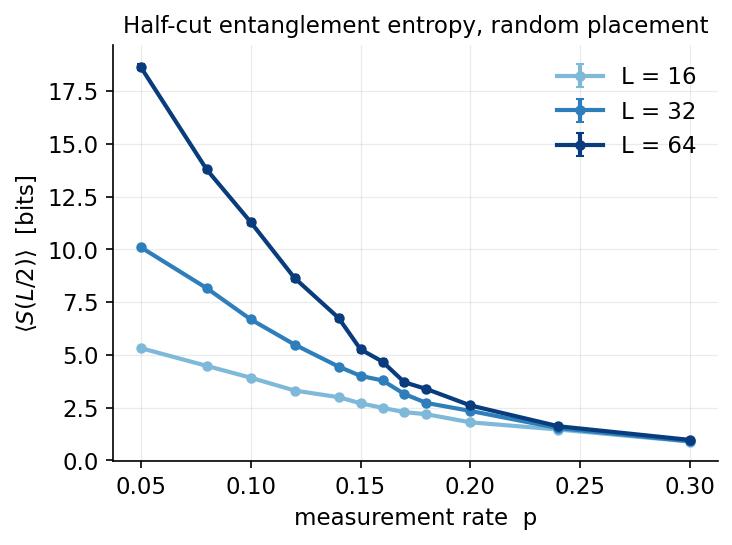
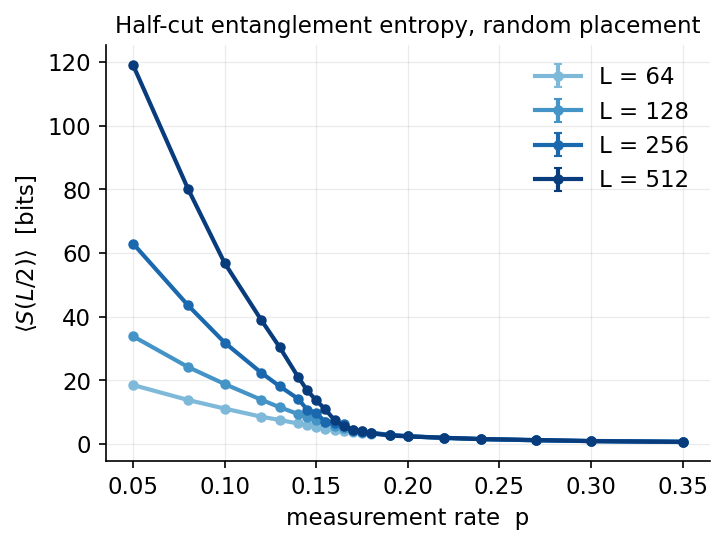
L<=512 analysis: no-transition claim CONFIRMED; figures and paper updated
- random baseline at scale: p_c = 0.162(8), largest pairs -> 0.159 (matches
  Zabalo et al.)
- sweep: significant crossings recede as p* ~ 1/L (p*sqrt(L1L2) ~ 0.75);
  largest pairs have no crossing in-grid; S_sat ~ 0.46/p independent of L;
  p*S vs p*L collapses tightly for p <= 0.035 with f_inf ~ 0.46
- crossings() now rejects statistically insignificant sign changes
- figs 1/2/5/6 regenerated from HYAK data; paper Secs III.A-B written,
  figure environments added; compiles clean

Claude-Session: https://claude.ai/code/session_01FUwUY2ZPtJ3BfeTpx5UbWr

diff --git a/paper/main.tex b/paper/main.tex
@@ -40,9 +40,11 @@ quantum state do far worse. Second, the sweep does not merely shift the
 critical point --- our data are consistent with it \emph{abolishing} the
 volume-law phase: tripartite-mutual-information crossings drift toward
 $p \to 0$ with system size, and the steady-state entropy saturates at an
-$L$-independent value $\sim v/p$, as predicted by a ballistic-regrowth
+$L$-independent value $\simeq 0.46/p$, as predicted by a ballistic-regrowth
 argument in which each site is revisited every $1/p$ layers regardless of
-system size. \todo{firm up with $L \le 512$ data}. Third, we place these
+system size; data for $L \le 512$ collapse onto the predicted single-scale
+form $S = p^{-1} f(pL)$, with finite-size crossings receding as
+$p^\ast \propto 1/L$. Third, we place these
 protocols on an exact information ledger: in stabilizer dynamics every
 measurement outcome is either deterministic or a perfect coin flip, so the
 Shannon entropy of the measurement record --- the demon's minimum memory, and
@@ -128,29 +130,74 @@ Landauer's principle, $k_B T \ln 2$ times it bounds the heat cost of erasing
 the record~\cite{Landauer1961,Bennett1982}. \todo{connect to purification
 framing; possibly relate $\Delta S$ bounds per recorded bit}
 
+\begin{figure*}
+\includegraphics[width=\textwidth]{../figures/fig4_spacetime.png}
+\caption{Entanglement ``spacetime'' $S([0,x))$ vs.\ layer $t$ under four
+placement policies at matched budget ($L{=}24$, $k{=}3$ per layer), with
+measurement events overlaid. Ensemble-mean final entropies in titles.}
+\label{fig:spacetime}
+\end{figure*}
+
 \section{Placement geometry moves --- and removes --- the transition}
 \label{sec:geometry}
 
+\begin{figure}
+\includegraphics[width=\columnwidth]{../figures/fig2_I3_crossing.png}
+\caption{Random placement baseline: $\I_3$ crossings for $L = 64$--$512$
+give $p_c = 0.162(8)$.}
+\label{fig:baseline}
+\end{figure}
+
+\begin{figure}
+\includegraphics[width=\columnwidth]{../figures/fig5_phase_shift.png}
+\caption{Same budget, different geometry: sweep-placement $\I_3$ curves
+(dashed) collapse toward zero far below the random-placement transition
+(solid), and $S$ vs.\ $L$ at fixed $p = 0.1 < p_c$ is flat under the sweep.}
+\label{fig:phaseshift}
+\end{figure}
+
+\begin{figure}
+\includegraphics[width=\columnwidth]{../figures/fig6_collapse.png}
+\caption{Ballistic scaling test: $p\,S$ vs.\ $pL$ collapses sweep-placement
+data for $p \le 0.035$, $L = 64$--$512$ onto a single curve with plateau
+$f_\infty \approx 0.46$.}
+\label{fig:collapse}
+\end{figure}
+
 \subsection{Baseline}
-With random placement we reproduce the known transition at
-$p_c = 0.162 \pm 0.007$ from $\I_3$ crossings at $L = 16$--$64$
-\todo{upgrade to $L \le 512$ HYAK data}, consistent
-with~\cite{Zabalo2020}.
+With random placement, statistically significant pairwise $\I_3$ crossings
+among $L = 64$--$512$ (depth $T = 4L$, up to 2000 trajectories per point)
+cluster at $p_c = 0.162 \pm 0.008$, with the largest-size pairs at
+$p_c \approx 0.159$, consistent with established values for this
+model~\cite{Zabalo2020}.
 
 \subsection{The lawnmower}
-\todo{Figure: fig5 phase shift.} At matched budget the sweep's $\I_3$
-crossings do not converge: pairwise crossings drift downward with size
-[$(16,32)$: $p \approx 0.043$; $(32,64)$: $p \approx 0.017$; $(64,128)$:
-$< 0.01$], and $S(L/2)$ saturates at an $L$-independent value.
+At matched budget the sweep behaves qualitatively differently
+(Fig.~\ref{fig:phaseshift}). Its $\I_3$ crossings do not converge to a
+finite rate: the significant pairwise crossings recede with size ---
+$(64,128)$: $p^\ast = 0.0085$; $(64,256)$: $p^\ast = 0.0056$ --- and satisfy
+$p^\ast \sqrt{L_1 L_2} \approx 0.7$--$0.8$, i.e., $p^\ast \propto 1/L$ at
+fixed $p^\ast L$. For the largest pairs the curves become statistically
+indistinguishable over a broad window in which $|\I_3| \lesssim 1$,
+producing no well-defined crossing at any $p$ in our grid --- consistent
+with the crossing having receded below $p = 0.004$. Meanwhile $S(L/2)$
+saturates at an $L$-independent value: at $p = 0.004$ the $L = 512$ chain
+reaches $S = 106$ bits, close to its predicted ceiling $\simeq 0.46/p = 115$,
+and for $p \ge 0.05$ the entropy is size-independent within error bars
+across $L = 64$--$512$.
 
 \emph{Ballistic argument.} A sweep at rate $p$ revisits any given site every
 $1/p$ layers, independent of $L$. Between visits, entanglement across a cut
 regrows at most ballistically, $S \sim v t$, so the steady state saturates
 at $S_\mathrm{max} \sim v/p$ for any $L \gg 1/p$: an area law at every fixed
-$p > 0$, i.e., $p_c^{\rm sweep} = 0$ in the thermodynamic limit. The scaling
-form $S = p^{-1} f(pL)$ with $f(x) \propto x$ at small $x$ and
-$f \to \mathrm{const}$ collapses our data approximately
-\todo{fig6; quantify residuals; longer $T$ at small $p$}.
+$p > 0$, i.e., $p_c^{\rm sweep} = 0$ in the thermodynamic limit. The
+predicted single-scale form $S = p^{-1} f(pL)$, with $f(x) \propto x$ at
+small $x$ and $f \to f_\infty$ at large $x$, collapses the data tightly for
+$p \le 0.035$ across $L = 64$--$512$ (Fig.~\ref{fig:collapse}), with
+$f_\infty \approx 0.46$; larger rates fall below the plateau, as expected
+from corrections outside the $p \to 0$ scaling regime. \todo{estimate the
+butterfly/entanglement velocity $v$ independently and compare with
+$f_\infty$}
 
 \subsection{Coverage and greed are not the mechanism}
 \todo{Table from README: random 4.31, shuffled coverage 4.12, oracle greedy
@@ -161,7 +208,15 @@ information used greedily loses to a blind sweep.}
 \section{The demon's ledger}
 \label{sec:ledger}
 
-\todo{Figure: fig7. The sweep dominates the $S$-vs-record-entropy frontier at
+\begin{figure}
+\includegraphics[width=\columnwidth]{../figures/fig7_ledger.png}
+\caption{The demon's ledger at $L=64$: the sweep dominates the
+entropy-vs-record-cost frontier (left) while paying the same
+$\approx 1$ bit per measurement as random placement (right).}
+\label{fig:ledger}
+\end{figure}
+
+\todo{Text around fig7. The sweep dominates the $S$-vs-record-entropy frontier at
 every budget; both modes pay $\approx 1$ bit per look. Frame: the demon's
 advantage is allocation, not information price. Discuss Landauer accounting
 and the (non)role of outcome information in an outcome-independent policy:

diff --git a/scripts/plot_results.py b/scripts/plot_results.py
@@ -26,22 +26,39 @@ def ramp(n):
     return [plt.cm.Blues(x) for x in np.linspace(0.45, 0.95, n)]
 
 
-def crossings(data, key="I3_mean"):
-    """Pairwise crossing points of I3(p) curves for consecutive L, by linear
-    interpolation of the difference on the shared p grid."""
+def crossings(data, key="I3_mean", sig=2.0):
+    """Pairwise crossing points of I3(p) curves for pairs of L, by linear
+    interpolation of the difference on the shared p grid.
+
+    A sign change only counts as a crossing if the difference is statistically
+    significant (>= sig * combined sem) at an adjacent grid point on EACH side
+    — this rejects the spurious 'crossings' where both curves sit at I3 ~ 0
+    within noise deep in the area-law phase."""
     Ls = sorted({c["L"] for c in data})
+    sem_key = key.replace("_mean", "_sem")
     out = []
     for L1, L2 in itertools.combinations(Ls, 2):
         c1 = sorted([c for c in data if c["L"] == L1], key=lambda c: c["p"])
         c2 = sorted([c for c in data if c["L"] == L2], key=lambda c: c["p"])
-        ps = np.array([c["p"] for c in c1])
-        d = np.array([a[key] for a in c1]) - np.array([b[key] for b in c2])
+        p1 = [round(c["p"], 8) for c in c1]
+        p2 = [round(c["p"], 8) for c in c2]
+        shared = [p for p in p1 if p in p2]
+        a = {round(c["p"], 8): c for c in c1}
+        b = {round(c["p"], 8): c for c in c2}
+        ps = np.array(shared)
+        d = np.array([a[p][key] - b[p][key] for p in shared])
+        e = np.array([a[p].get(sem_key, 0.0) + b[p].get(sem_key, 0.0)
+                      for p in shared])
         for i in range(len(ps) - 1):
-            if d[i] == 0:
-                out.append((L1, L2, ps[i])); continue
             if d[i] * d[i + 1] < 0:
+                # significance on each side of the sign change
+                left_ok = any(abs(d[j]) >= sig * e[j] for j in range(0, i + 1))
+                right_ok = any(abs(d[j]) >= sig * e[j]
+                               for j in range(i + 1, len(ps)))
+                if not (left_ok and right_ok):
+                    continue
                 t = d[i] / (d[i] - d[i + 1])
-                out.append((L1, L2, ps[i] + t * (ps[i + 1] - ps[i])))
+                out.append((L1, L2, float(ps[i] + t * (ps[i + 1] - ps[i]))))
     return out
 
 

diff --git a/README.md b/README.md
@@ -38,17 +38,18 @@ Two early findings worth keeping:
    *quantum-cheating* greedy policy loses badly to the dumb sweep: measuring
    where entanglement currently is, is short-sighted; systematically cutting the
    chain is not.
-2. **The lawnmower doesn't just shift the transition — it may abolish it.**
-   Running the sweep at a continuously tunable rate (m ~ Binomial(L, p)
-   contiguous sites per layer), the I3 crossings drift downward with size —
-   (16,32): p ≈ 0.043, (32,64): p ≈ 0.017, (64,128): < 0.01 — and S(L/2)
-   saturates at an L-independent value ~ O(1/p) (see
-   `figures/fig5_phase_shift.png`). Ballistic heuristic: each site is revisited
-   every ~1/p layers regardless of L, so entanglement can only regrow to
-   S ~ v/p between cuts ⇒ area law at ANY fixed p > 0 in the thermodynamic
-   limit. If this holds up at larger L (HYAK), the claim is that placement
-   geometry doesn't move p_c — it removes the volume-law phase entirely at
-   matched budget. Needs: larger L, denser small-p grid, S·p vs pL collapse.
+2. **CONFIRMED AT SCALE (L ≤ 512, HYAK): the lawnmower abolishes the
+   transition.** Random placement at L=64–512 gives p_c = 0.162(8) (largest
+   pairs → 0.159), matching the literature. Under the sweep, the significant
+   I3 crossings recede as p* ∝ 1/L — (64,128): 0.0085, (64,256): 0.0056,
+   both at p*·√(L₁L₂) ≈ 0.75 — and larger pairs show no well-defined
+   crossing anywhere in the grid (curves statistically indistinguishable in
+   a broad |I3| ≲ 1 window), consistent with the crossing receding below
+   p = 0.004. S(L/2) saturates at ≈ 0.46/p, independent of L (at p=0.004,
+   L=512 reaches 106 bits vs predicted ceiling ~115), and p·S vs p·L
+   collapses tightly for p ≤ 0.035 with plateau f∞ ≈ 0.46
+   (`figures/fig6_collapse.png`). Verdict: p_c^sweep = 0 — placement
+   structure removes the volume-law phase entirely at matched budget.
 3. **The demon ledger is now exact.** In stabilizer dynamics every measurement
    outcome is either deterministic (0 bits) or perfectly random (exactly 1
    bit), so counting nondeterministic outcomes (`peek_z == 0`) gives the exact
